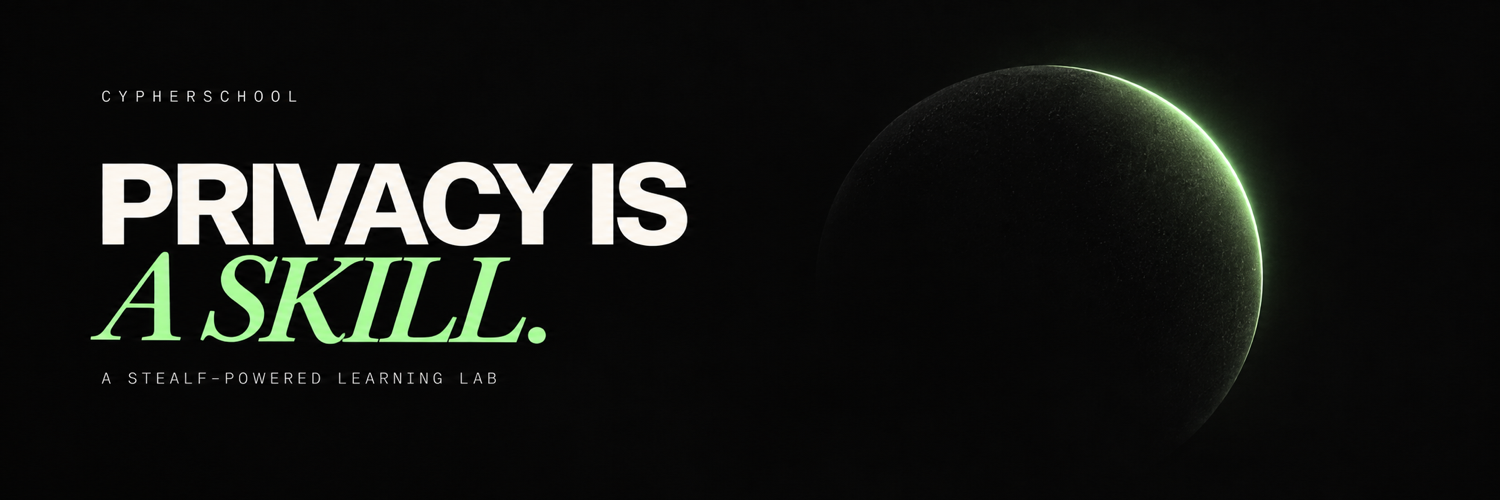
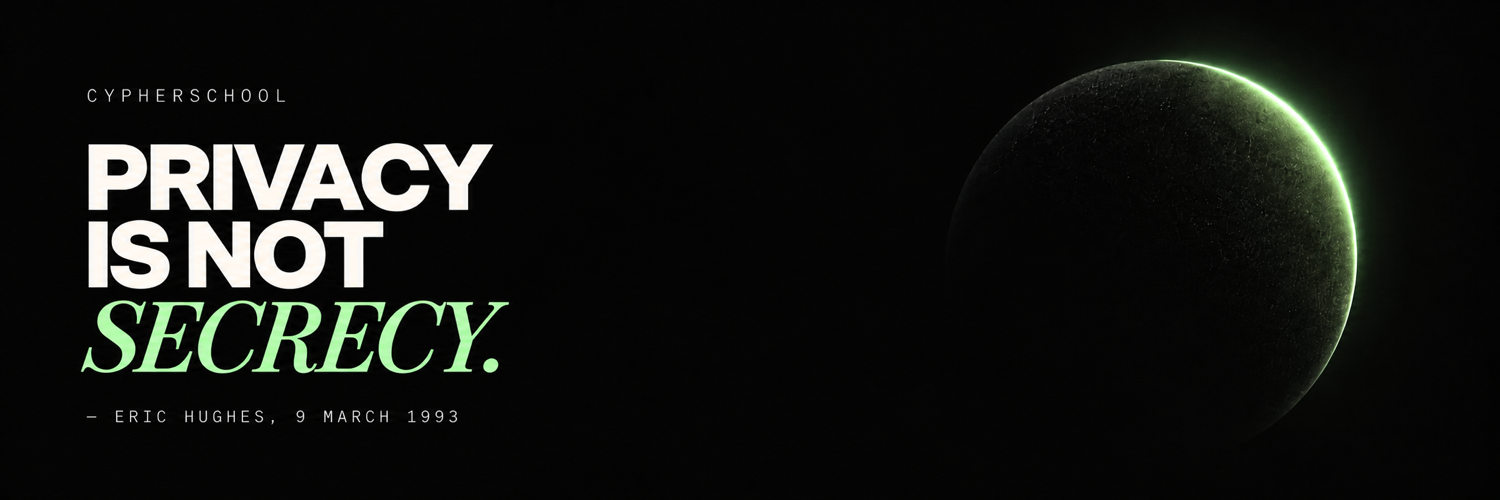
Refresh quote cover and social preview

diff --git a/index.html b/index.html
@@ -16,12 +16,12 @@
     <meta property="og:image:type" content="image/png" />
     <meta property="og:image:width" content="1500" />
     <meta property="og:image:height" content="500" />
-    <meta property="og:image:alt" content="CypherSchool — Privacy is a skill. A Stealf-powered learning lab." />
+    <meta property="og:image:alt" content="CypherSchool — Privacy is not Secrecy. Eric Hughes, 9 March 1993." />
     <meta name="twitter:card" content="summary_large_image" />
     <meta name="twitter:title" content="CypherSchool — Privacy is a skill" />
     <meta name="twitter:description" content="A Stealf-powered privacy lab for short, interactive learning about financial privacy." />
     <meta name="twitter:image" content="https://cypherschool.justneverminding.workers.dev/cypherschool-social-preview.png" />
-    <meta name="twitter:image:alt" content="CypherSchool — Privacy is a skill. A Stealf-powered learning lab." />
+    <meta name="twitter:image:alt" content="CypherSchool — Privacy is not Secrecy. Eric Hughes, 9 March 1993." />
     <title>CypherSchool — Privacy is a skill</title>
   </head>
   <body>
